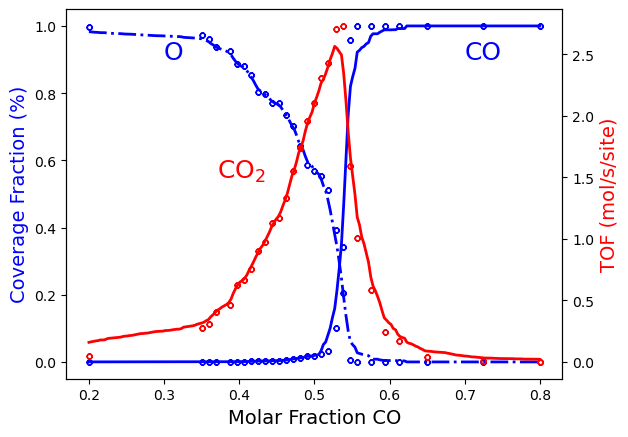
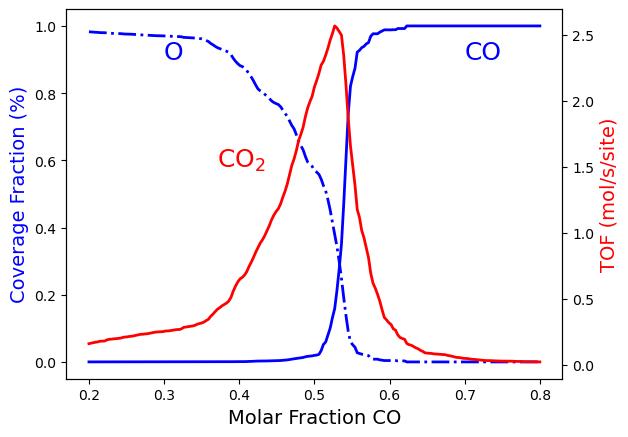
Simple changes in the documentation -- SO203

diff --git a/examples/ZiffGulariBarshad/PhaseTransitions-ADP.py b/examples/ZiffGulariBarshad/PhaseTransitions-ADP.py
@@ -289,16 +289,13 @@ ax.set_xlabel('Molar Fraction CO', fontsize=14)
 
 ax.set_ylabel("Coverage Fraction (%)", color="blue", fontsize=14)
 ax.plot(x_CO_model, ac_O_model, color="blue", linestyle="-.", lw=2, zorder=1)
-ax.plot(x_CO, ac_O, marker='$\u25EF$', color='blue', markersize=4, lw=0, zorder=1)
 ax.plot(x_CO_model, ac_CO_model, color="blue", linestyle="-", lw=2, zorder=2)
-ax.plot(x_CO, ac_CO, marker='$\u25EF$', color='blue', markersize=4, lw=0, zorder=1)
 plt.text(0.3, 0.9, 'O', fontsize=18, color="blue")
 plt.text(0.7, 0.9, 'CO', fontsize=18, color="blue")
 
 ax2 = ax.twinx()
 ax2.set_ylabel("TOF (mol/s/site)",color="red", fontsize=14)
 ax2.plot(x_CO_model, TOF_CO2_model, color='red', linestyle='-', lw=2, zorder=0)
-ax2.plot(x_CO, TOF_CO2, marker='$\u25EF$', color='red', markersize=4, lw=0, zorder=1)
 plt.text(0.37, 1.5, 'CO$_2$', fontsize=18, color="red")
 
 plt.show()
